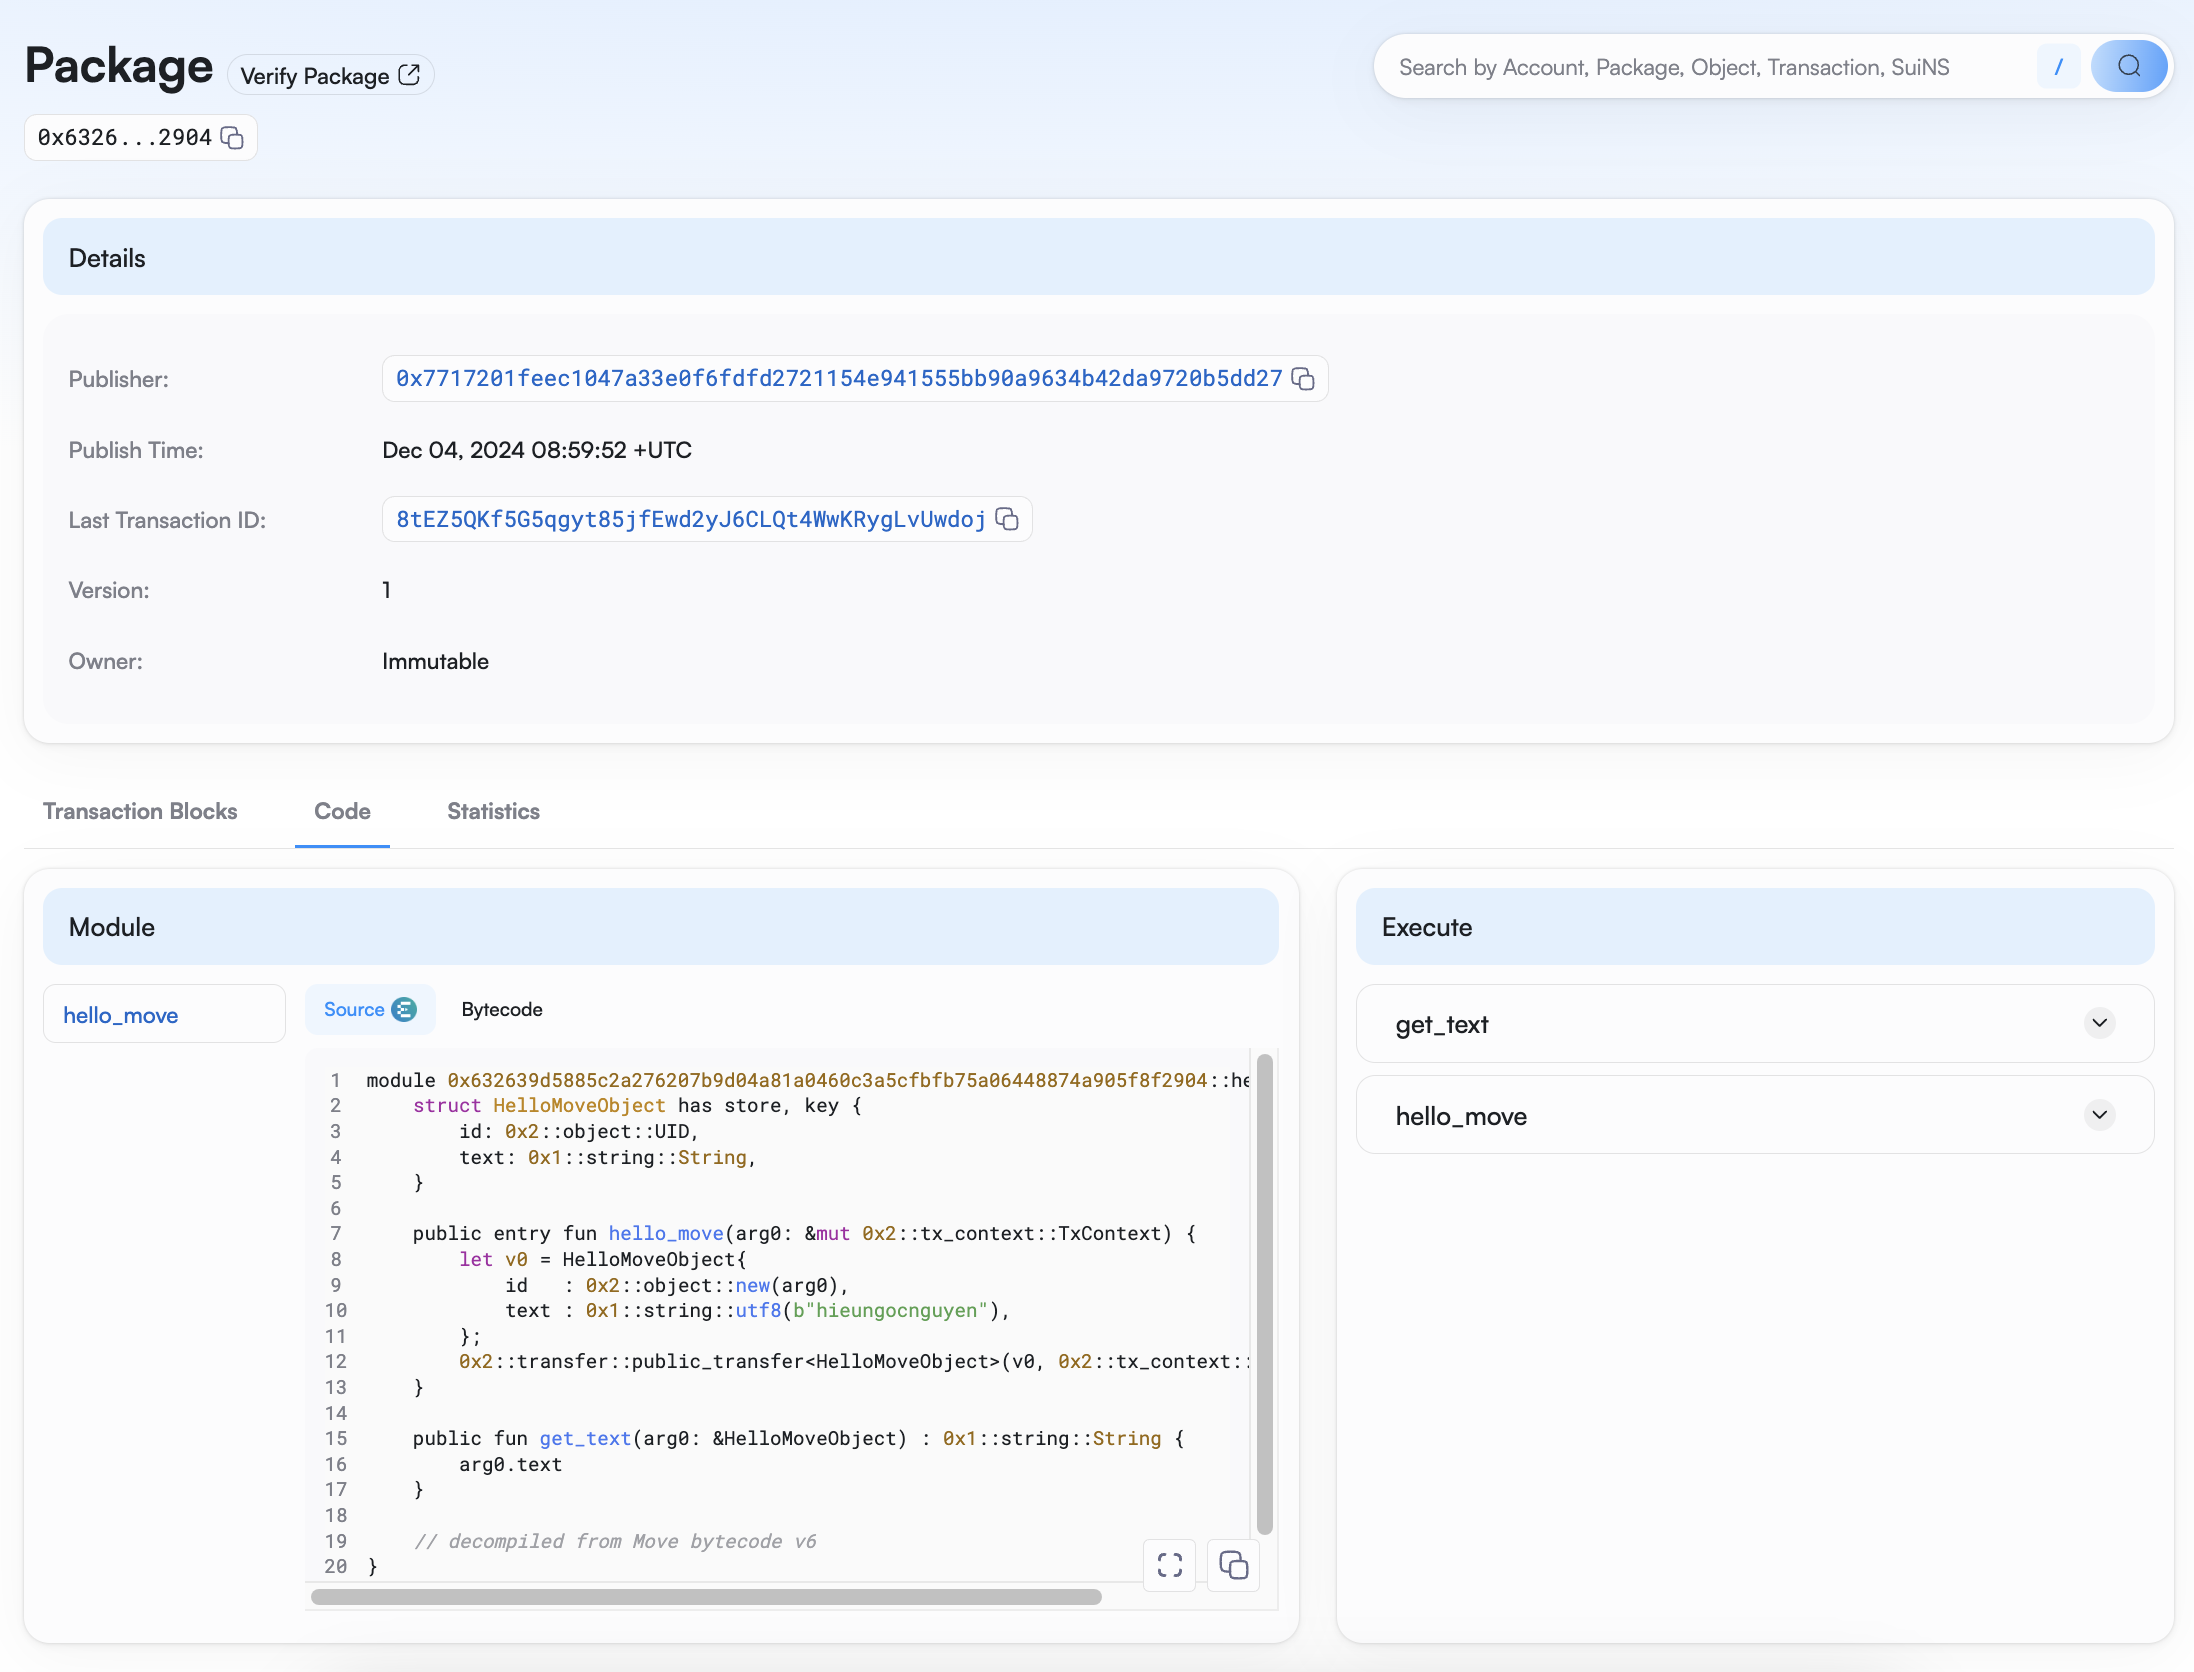
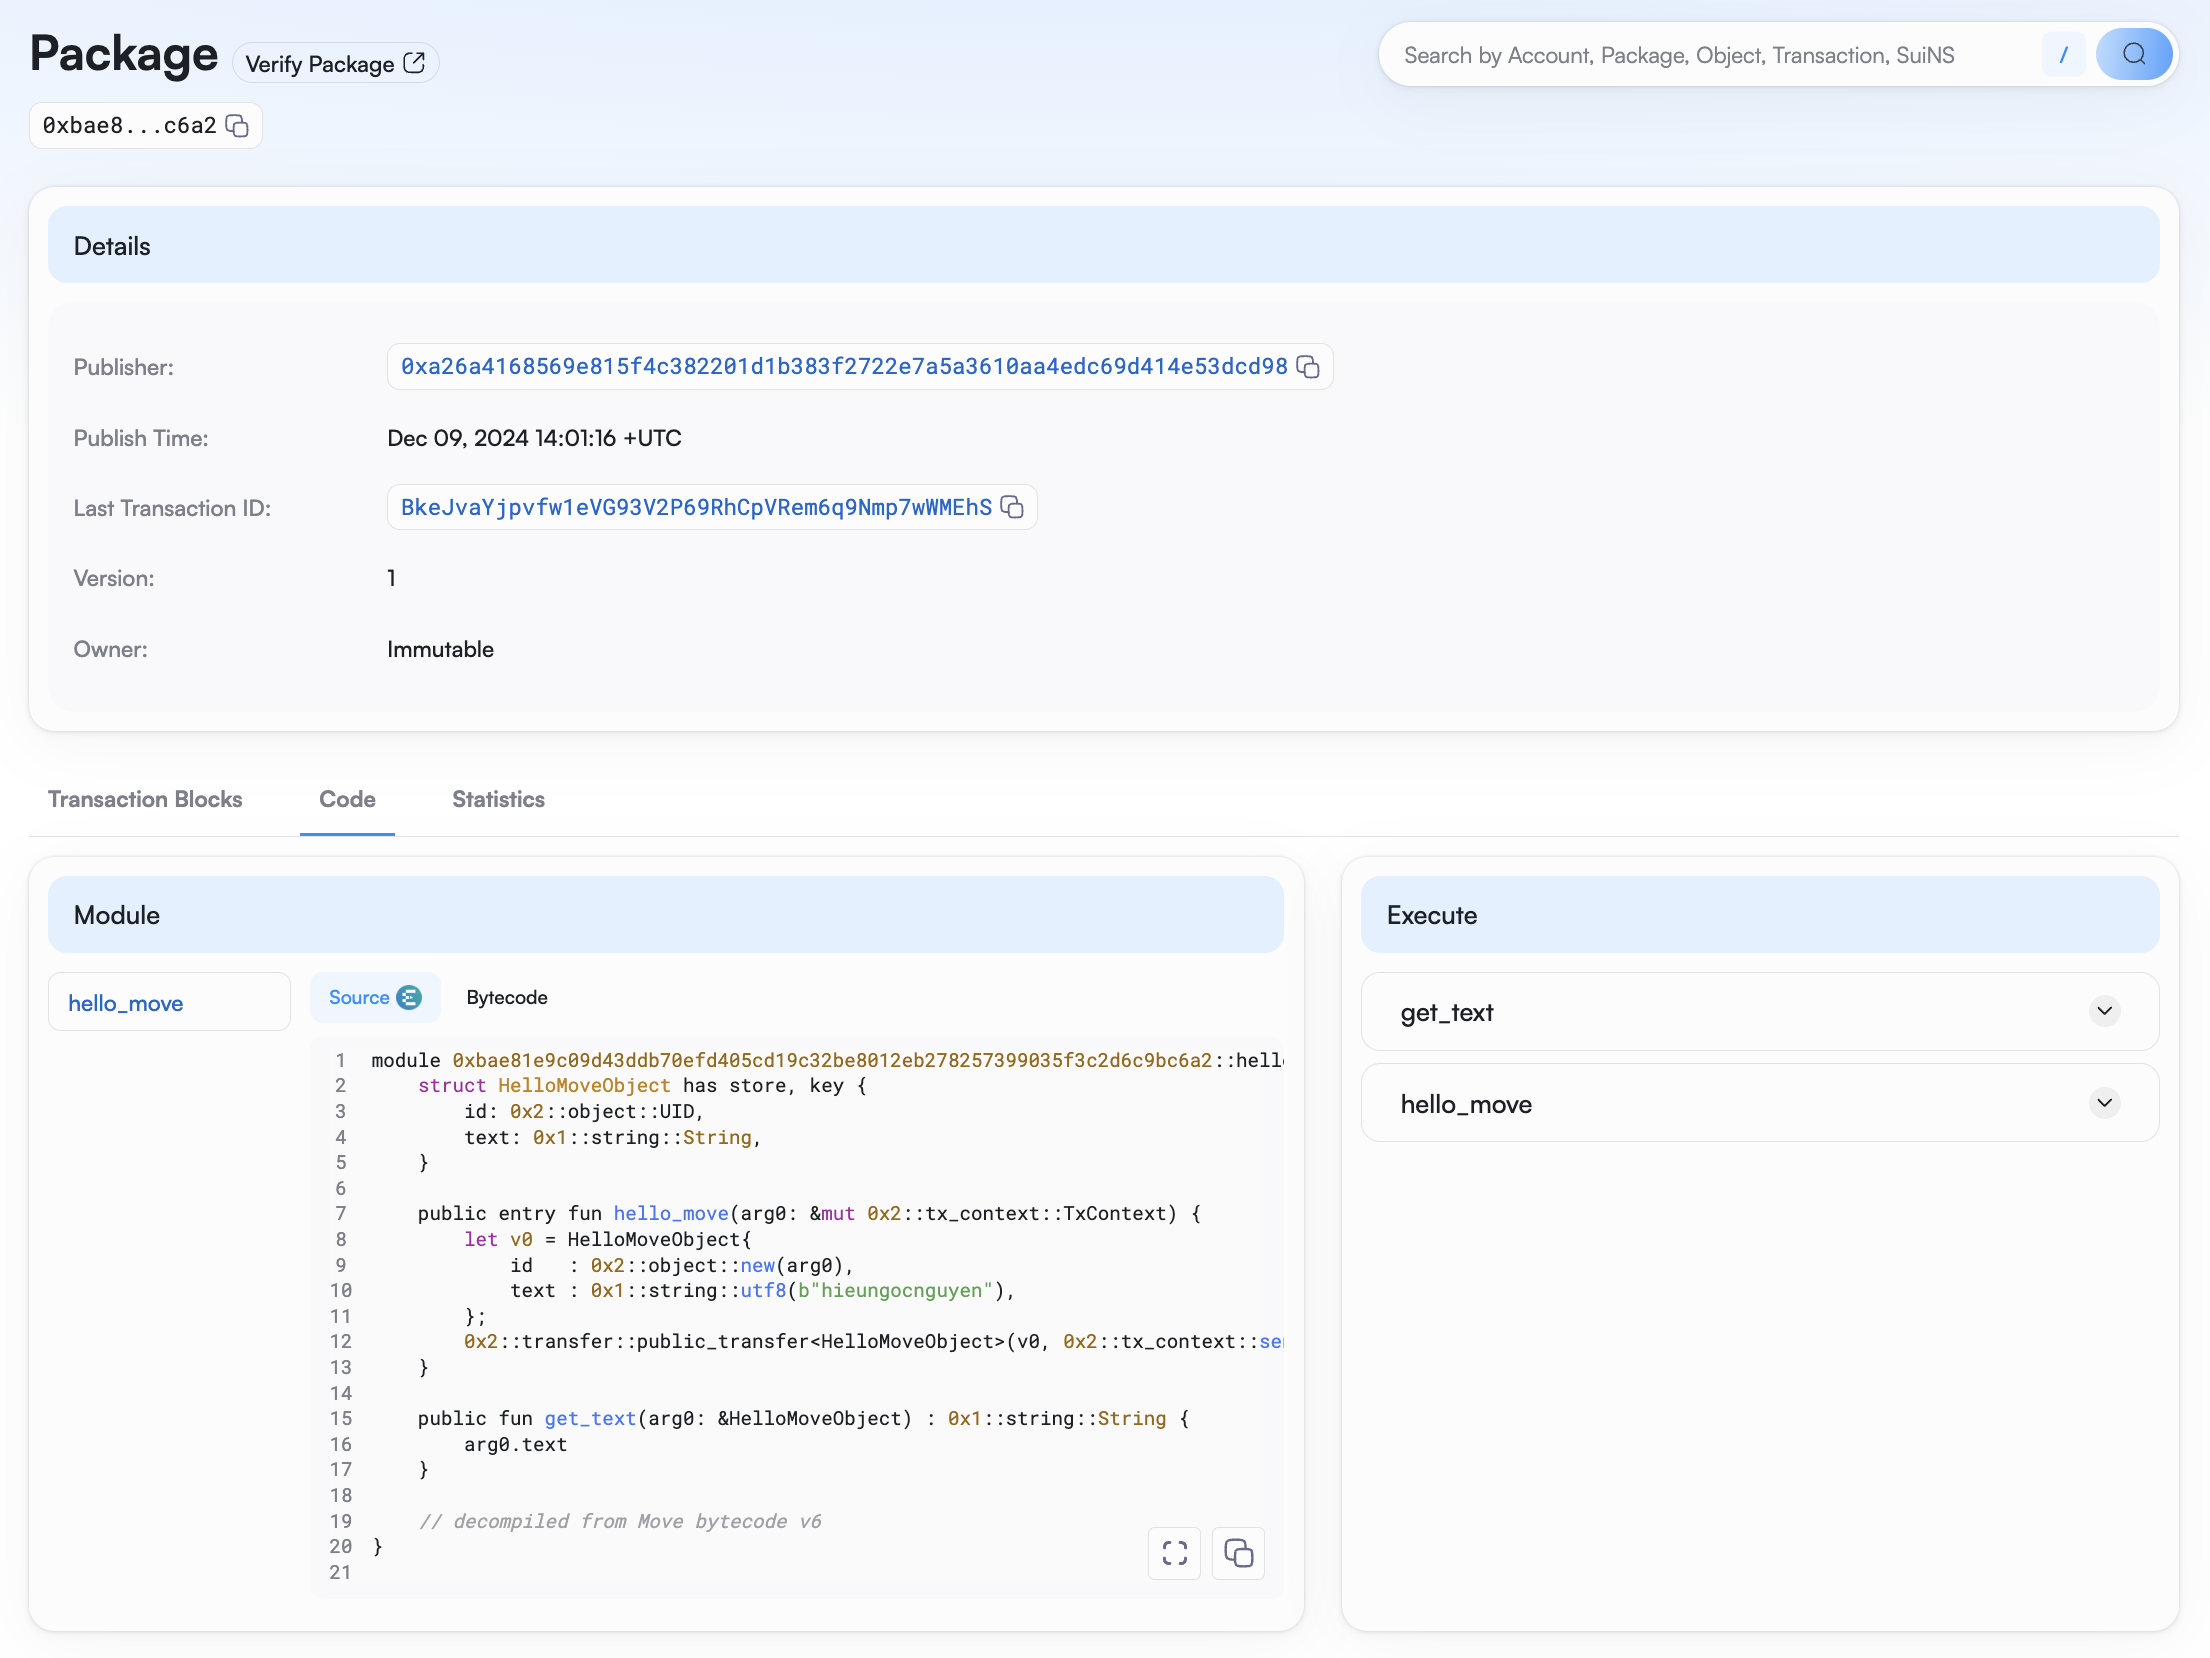
update README and Move.lock: fix image paths and update compiler version

diff --git a/mover/hieungocnguyen/README.md b/mover/hieungocnguyen/README.md
@@ -15,10 +15,10 @@
 ### 01 hello move
 - [x] Sui CLI Version: sui 1.38.2-homebrew
 - [x] Sui Wallet Screenshot: Link to image uploaded to `images` folder.
-![wallet](./images/task_1/SUI_wallet.png)
-- [x] Package ID: 0x632639d5885c2a276207b9d04a81a0460c3a5cfbfb75a06448874a905f8f2904
+![wallet](images/task_1/SUI_wallet.png)
+- [x] Package ID: 0xbae81e9c09d43ddb70efd405cd19c32be8012eb278257399035f3c2d6c9bc6a2
 - [x] Package ID's Screenshot from Explorer: Link to image uploaded to `images` folder.
-![package_explorer](./images/task_1/package_hello.png)
+![package_explorer](images/task_1/package_hello.png)
 
 ### 02 move coin
 - [ ] `My Coin` Package ID:
